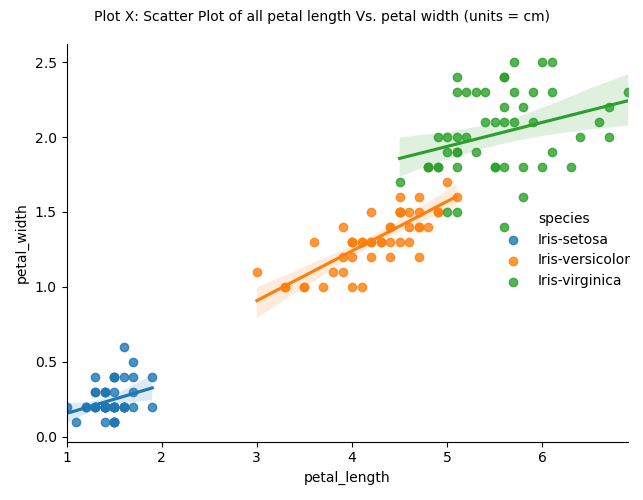
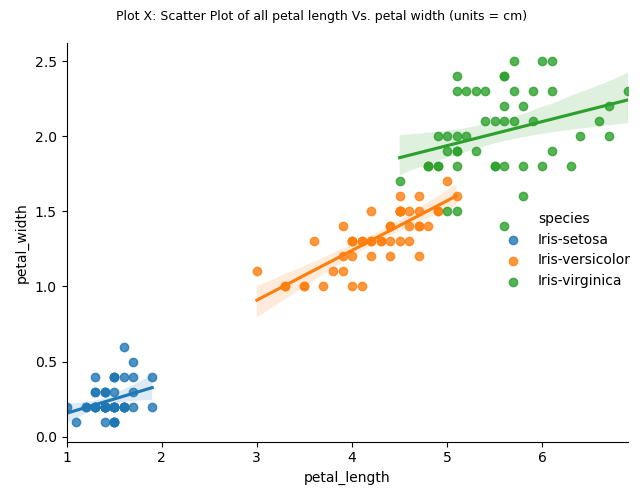
test

diff --git a/Project/analysis.py b/Project/analysis.py
@@ -175,7 +175,7 @@ scatter_plot()
 # Reference: https://seaborn.pydata.org/generated/seaborn.lmplot.html
 def lmplot(): 
     sns.lmplot(data=iris_df, x='petal_length', y='petal_width', hue = 'species')
-    plt.suptitle('Plot X: Scatter Plot of all petal length Vs. petal width (units = cm)',fontsize = 10)
+    plt.suptitle('Plot X: Scatter Plot of all petal length Vs. petal width (units = cm)',fontsize = 9)
     plt.tight_layout()
     plt.savefig('Images/' + 'testing' +'.png')
     

diff --git a/Project/README.md b/Project/README.md
@@ -303,7 +303,7 @@ The following was observations were made from the scatter plots:
 
 
 
-  <img src="Images/testing.png" width="500" />
+  <img src="Images/testing.png" width="450" />
 
 
 <br/>
